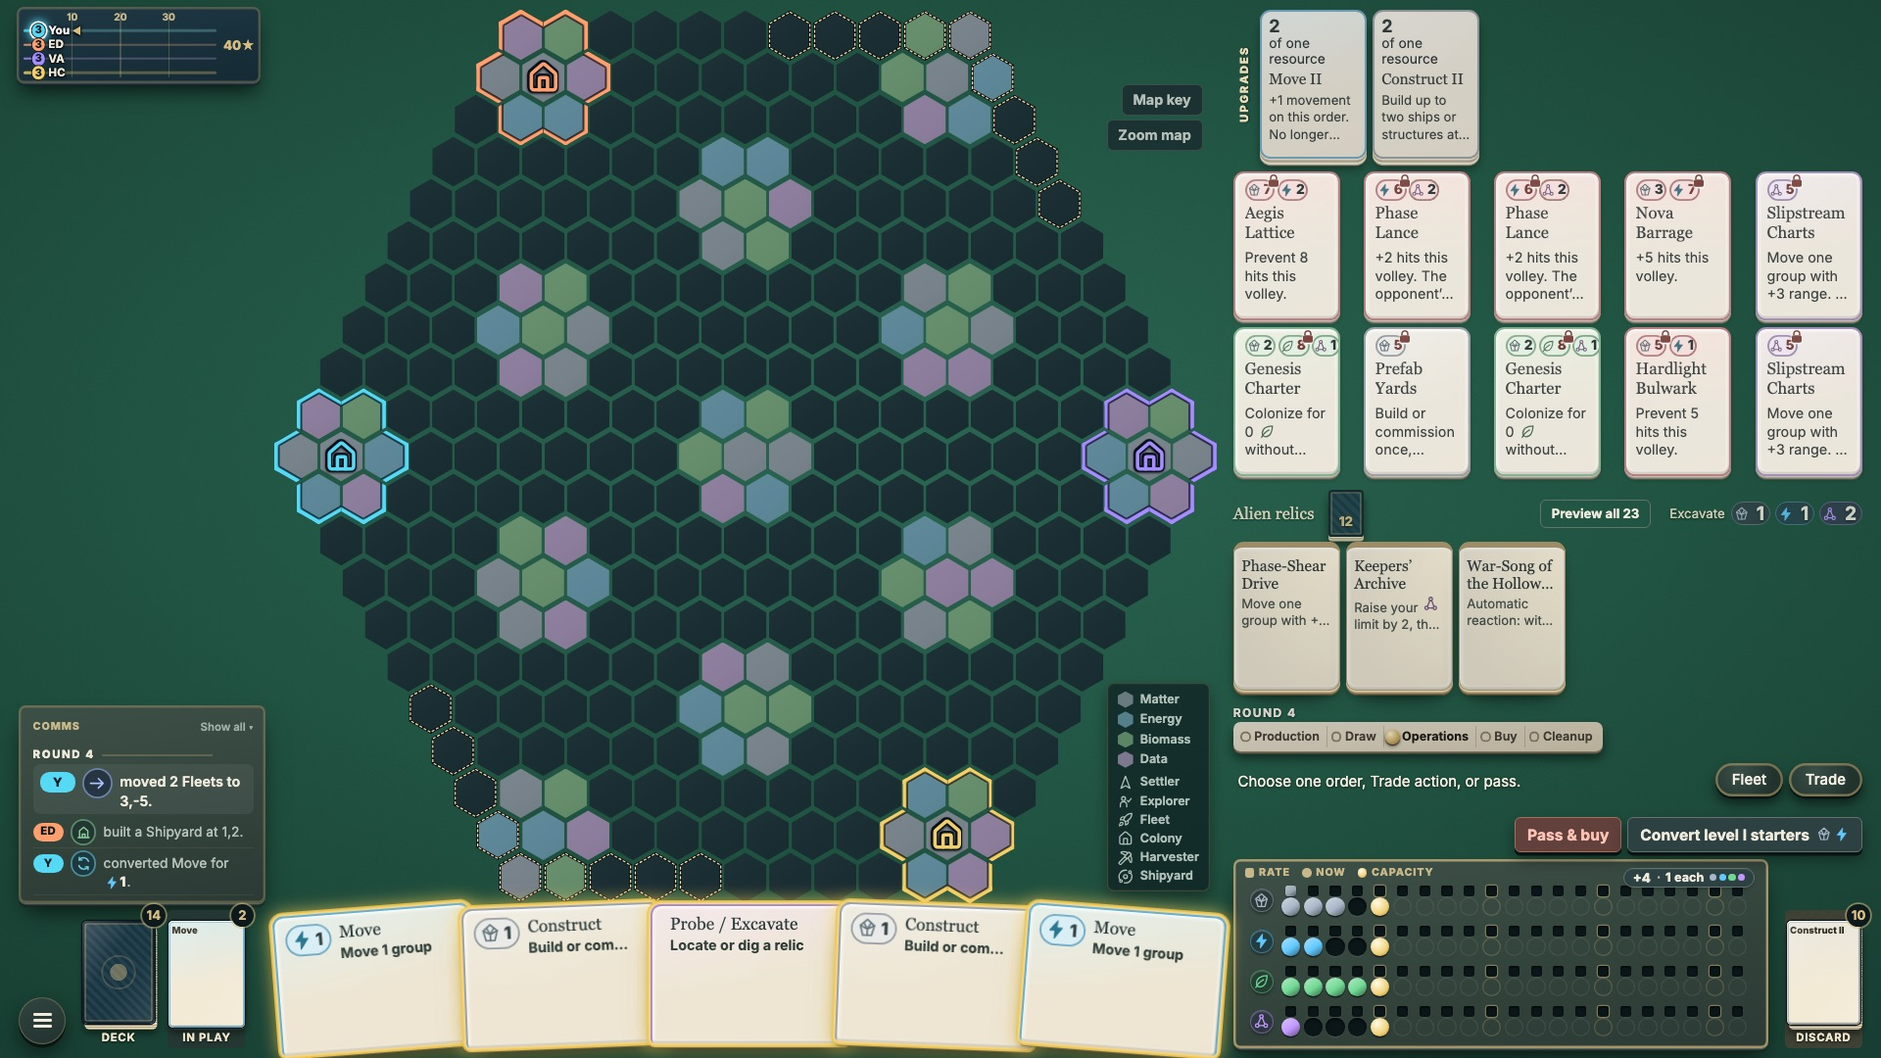
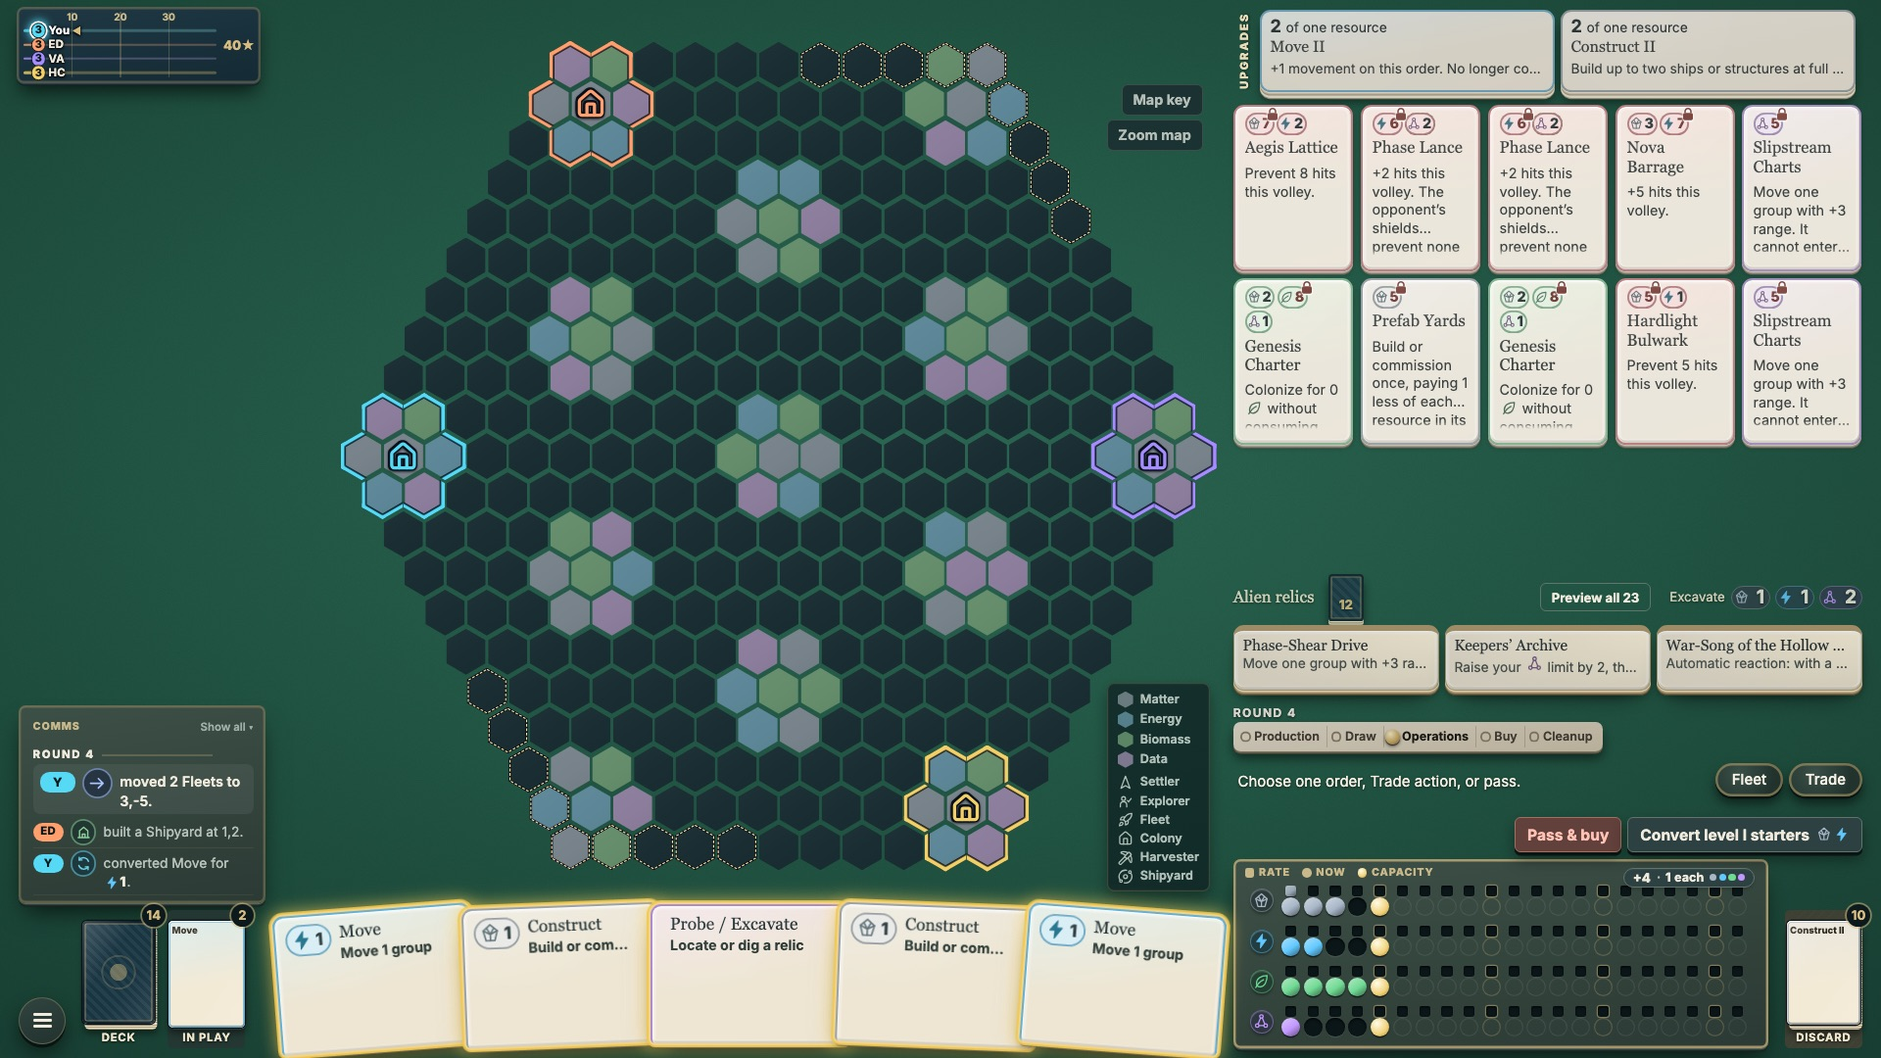
The map fills its space again (the size search scans down instead of bisecting, since corner pieces can clear a larger map and touch a smaller one); market cards pick 3-5 to a row for the largest real cards and never run into the relics; checks assert the map fills 85% of its space and no supply pie

Changed region(s): [[0.125, 0.0, 1.0, 0.8556]]

diff --git a/prototypes/galactic-reach/rulebook.html b/prototypes/galactic-reach/rulebook.html
@@ -123,7 +123,7 @@
 
       <section id="movement">
         <h2>05 / Exploration &amp; movement</h2>
-        <p id="shared-board">Read shared table information around the board: on a desktop window, the whole window is one table, scaled as a whole to fit; the standings are the race to the Prestige goal, a small printed track by the map’s top-left corner with one lane per faction and its marker at its current score (the acting faction’s marker glows, with an arrow; point at or focus a marker for an overview of that faction’s Prestige sources, colonies, cards bought and fleet power, or select it for the breakdown; on a phone the track is the <strong>Table</strong> drawer); the comms feed lies in the bottom-left corner as a small card of the latest three entries, printed like your player mat; select it to open the whole feed, and again (or press Escape) to close it (each entry shows who acted, a symbol for the kind of event and its resource and Prestige amounts; point at an entry for the full sentence); the map itself fills all the space the other pieces leave, reaching into the corners around the track and the comms card, with a short key of the terrain colours and pieces in its bottom-right corner (the <strong>Map key</strong> button has the full descriptions); and to its right lies the supply, all visible together: the <strong>Upgrades</strong> tray (with <strong>Trash a card</strong> beside it during Buy), the ten market cards and the face-up alien relics; below the supply, by your seat, are the round’s phases, the turn prompt, <strong>Fleet</strong> and <strong>Trade</strong>, then the turn’s buttons. On your turn your hand glows and gently breathes (a still glow when your device asks for reduced motion). <strong>Fleet</strong> opens over the supply. The game’s title, rules, card gallery, new game, Undo and playtest notes open from the menu button in the bottom-left corner. The market shows its cards with their names and as much of each effect as fits, wrapped; on a wide window the market, upgrade and relic cards are drawn in real card proportions (point at one to read it in full; choose it to buy), and cards you can buy now are outlined in gold. <strong>Trade</strong> opens the trade channel in its own window. Card frames take the colour of the resource a card works with (gold for capacity, Buy and Prestige cards, red for military and attack cards); the map key shows them. Select a Prestige marker to inspect its breakdown; the scoring reference is in <a href="#victory">Victory</a>. On a narrow screen, these panels reflow inside the board frame; scroll the map to reach other hexes. The recent-action feed can say that Probe was used, but never gives its private relic location. Your hand, card piles, reserves, and full game-report download stay on your player mat. The report can include private information.</p>
+        <p id="shared-board">Read shared table information around the board: on a desktop window, the whole window is one table, scaled as a whole to fit; the standings are the race to the Prestige goal, a small printed track by the map’s top-left corner with one lane per faction and its marker at its current score (the acting faction’s marker glows, with an arrow; point at or focus a marker for an overview of that faction’s Prestige sources, colonies, cards bought and fleet power, or select it for the breakdown; on a phone the track is the <strong>Table</strong> drawer); the comms feed lies in the bottom-left corner as a small card of the latest three entries, printed like your player mat; select it to open the whole feed, and again (or press Escape) to close it (each entry shows who acted, a symbol for the kind of event and its resource and Prestige amounts; point at an entry for the full sentence); the map itself fills all the space the other pieces leave, reaching into the corners around the track and the comms card, with a short key of the terrain colours and pieces in its bottom-right corner (the <strong>Map key</strong> button has the full descriptions); and to its right lies the supply, all visible together: the <strong>Upgrades</strong> tray (with <strong>Trash a card</strong> beside it during Buy), the ten market cards and the face-up alien relics; below the supply, by your seat, are the round’s phases, the turn prompt, <strong>Fleet</strong> and <strong>Trade</strong>, then the turn’s buttons. On your turn your hand glows and gently breathes (a still glow when your device asks for reduced motion). <strong>Fleet</strong> opens over the supply. The game’s title, rules, card gallery, new game, Undo and playtest notes open from the menu button in the bottom-left corner. The market shows its cards with their names and as much of each effect as fits, wrapped; on a wide window the market cards are drawn in real card proportions, three to five to a row, whichever makes them largest (point at one to read it in full; choose it to buy), and cards you can buy now are outlined in gold. <strong>Trade</strong> opens the trade channel in its own window. Card frames take the colour of the resource a card works with (gold for capacity, Buy and Prestige cards, red for military and attack cards); the map key shows them. Select a Prestige marker to inspect its breakdown; the scoring reference is in <a href="#victory">Victory</a>. On a narrow screen, these panels reflow inside the board frame; scroll the map to reach other hexes. The recent-action feed can say that Probe was used, but never gives its private relic location. Your hand, card piles, reserves, and full game-report download stay on your player mat. The report can include private information.</p>
         <p id="keyboard-controls">Use <strong>Tab</strong> to reach controls and <strong>Enter</strong> or <strong>Space</strong> to activate them. The first link skips straight to player controls. Use arrow keys, Home, or End to switch the player-control tabs. Escape closes inspectors and reference windows. Combat and excess-resource choices stay open until you make the required choice.</p>
         <div class="book-legend" role="group" aria-label="Map symbols"><span><b class="relic-mark" aria-hidden="true">◈</b> Located relic</span><span><b class="relic-mark" aria-hidden="true">●</b> Gray moon · no production</span></div>
         <p>World terrain is always public, but seeing a world does not locate its relic. Any Settler, Fleet, or Explorer ending a move surveys that world or moon, revealing its terrain to everyone. Arrival never locates a relic. Use <strong>Probe</strong> from your Explorer’s current hex to locate the nearest remaining relic you have not already discovered, even on an unvisited world or hidden moon. Known sites are skipped. When you locate the last unknown site, a message tells you that all remaining relics are discovered. If all remaining sites are already known to you, Probe warns you without spending the card or your action. You do not need to reach that world or moon first. A signal on an undiscovered moon reveals the relic’s hex to you without revealing the moon’s terrain. Other players must locate it for themselves. Existing discovery relic cards keep their printed effects. Probe and Chorus signals stay private after later terrain surveys. Only an effect that explicitly reveals relics to everyone makes them public. All players’ units remain visible, including in empty space. Unit markers alone do not reveal a hidden moon or relic.</p>

diff --git a/prototypes/galactic-reach/styles.css b/prototypes/galactic-reach/styles.css
@@ -2570,41 +2570,23 @@ html { -webkit-text-size-adjust: 100%; text-size-adjust: 100%; }
   .storage-upgrade-button .storage-each i.data { background: var(--data); }
 }
 
-/* ==== On wide tables the supply cards are real cards: market, upgrade and relic cards all share
-   one 63:88 card size, with the name on up to two lines and as much of the effect as fits. On
-   squarer tables (iPad landscape, ~1440x1200) they stay wider, with the same readable text, so
-   the map stays big. ==== */
+/* ==== On wide tables the market cards are real cards (63:88): three, four or five to a row,
+   whichever makes them tallest in the market's space (see fitMarket), with the name on up to
+   two lines and the effect filling the rest of the card. Upgrades and relics stay readable
+   tiles (all of them as cards would not fit the table's height). On squarer tables (iPad
+   landscape, ~1440x1200) the market keeps wider cards with the same readable text, so the map
+   stays big. ==== */
 @media (min-width: 600px) and (min-height: 600px) and (orientation: landscape) {
-  /* One card size: at most 127 units tall, and narrow enough for five across the supply. The
-     container units resolve against the supply column wherever the size is used. */
-  .table-wide { --card-w: min(calc(127px * 63 / 88), calc((100cqw - 20px) / 5)); --card-h: calc(var(--card-w) * 88 / 63); }
-  /* The market: two rows of five. */
-  .table-wide #market-row { grid-template-columns: repeat(5, var(--card-w)) !important; grid-auto-rows: var(--card-h) !important; justify-content: space-between; align-content: start; }
-  .table-wide .market-cards #market-row .game-card { align-self: start !important; }
-  .table-wide .market-cards #market-row .game-card:not(:hover):not(:focus):not(:focus-within) { height: 100%; }
-  /* Long names break with a hyphen rather than run past a narrow card. */
-  .table-wide :is(#market-row, #upgrade-market, .relic-row) .card-name { hyphens: auto; overflow-wrap: break-word; }
-  /* Prices wrap onto a second line rather than run past a narrow card. */
-  .table-wide :is(#market-row, #upgrade-market, .relic-row) .card-footer { flex-wrap: wrap; row-gap: 2px; }
-  .table-wide :is(#market-row, #upgrade-market, .relic-row) .card-footer .resource-chip { min-height: 18px !important; padding: 0 3px 0 2px !important; }
-  .table-wide :is(#market-row, #upgrade-market, .relic-row) .card-footer .resource-symbol { width: 12px !important; height: 12px !important; }
-  .table-wide :is(#market-row, #upgrade-market, .relic-row) .card-footer .resource-chip strong { font-size: 11.5px !important; }
-  /* Upgrades: two cards in the tray. */
-  .table-wide #upgrade-market { --utop-h: var(--card-h) !important; grid-template-columns: 18px repeat(2, var(--card-w)) !important; justify-content: start; }
-  .table-wide #upgrade-market .game-card:not(:hover):not(:focus):not(:focus-within) { container-type: size; align-content: start; row-gap: 2px !important; padding: 4px 6px 5px !important; }
-  .table-wide #upgrade-market .game-card:not(:hover):not(:focus):not(:focus-within) .card-name { font-size: 13px !important; line-height: 1.15 !important; white-space: normal !important; }
-  .table-wide #upgrade-market .upgrade-price { white-space: normal !important; flex-wrap: wrap; row-gap: 0; line-height: 1.15; }
-  /* Relics: three face-up cards. */
-  .table-wide #relics-panel { --rtop-h: var(--card-h); }
-  .table-wide .relic-row { grid-template-columns: repeat(3, var(--card-w)) !important; justify-content: start; }
-  .table-wide .relic-row > div:not(:has(> .button)) .game-card:not(:hover):not(:focus):not(:focus-within) { container-type: size; }
-  .table-wide .relic-row .game-card:not(:hover):not(:focus):not(:focus-within) { grid-template-columns: minmax(0, 1fr) !important; grid-template-areas: "gain" "name" "effect" !important; align-content: start; row-gap: 3px !important; padding: 5px 6px !important; }
-  .table-wide .relic-row .game-card:not(:hover):not(:focus):not(:focus-within) .card-footer { justify-self: start; }
-  .table-wide .relic-row .game-card:not(:hover):not(:focus):not(:focus-within) .card-name { white-space: normal !important; display: -webkit-box; -webkit-box-orient: vertical; -webkit-line-clamp: 2; line-clamp: 2; overflow: hidden; text-overflow: clip; }
-  /* Effects wrap; the number of lines follows the card's own height (see the market rules). */
-  .table-wide :is(#upgrade-market, .relic-row) .game-card:not(:hover):not(:focus):not(:focus-within) .card-effect {
-    display: -webkit-box !important; -webkit-box-orient: vertical; -webkit-line-clamp: 1 !important; line-clamp: 1 !important; white-space: normal !important; overflow: hidden !important; font-size: 11px !important; line-height: 1.3 !important;
-  }
-  @container (min-height: 100px) { .table-wide :is(#upgrade-market, .relic-row) .game-card:not(:hover):not(:focus):not(:focus-within) .card-effect { -webkit-line-clamp: 2 !important; line-clamp: 2 !important; } }
-  @container (min-height: 112px) { .table-wide :is(#upgrade-market, .relic-row) .game-card:not(:hover):not(:focus):not(:focus-within) .card-effect { -webkit-line-clamp: 3 !important; line-clamp: 3 !important; } }
+  .table-wide #market-row { grid-template-columns: repeat(var(--mcols, 5), minmax(0, 1fr)) !important; grid-auto-rows: auto !important; align-content: start; gap: 6px !important; }
+  .table-wide .market-cards #market-row > .game-card { justify-self: center; align-self: start !important; width: calc(var(--mcard-h, 140px) * 63 / 88); }
+  .table-wide .market-cards #market-row > .game-card:not(:hover):not(:focus):not(:focus-within) { height: var(--mcard-h, 140px) !important; grid-template-rows: auto auto auto minmax(0, 1fr) auto auto !important; }
+  /* The effect takes exactly the height left under the name and price, so it never runs past
+     the card; a line cut short fades out. */
+  .table-wide .market-cards #market-row > .game-card:not(:hover):not(:focus):not(:focus-within) .card-effect { align-self: stretch; min-height: 0; max-height: 100%; -webkit-line-clamp: 8 !important; line-clamp: 8 !important; -webkit-mask-image: linear-gradient(to bottom, #000 calc(100% - 6px), transparent); mask-image: linear-gradient(to bottom, #000 calc(100% - 6px), transparent); }
+  /* Long names break with a hyphen; prices wrap as a group rather than run past the card. */
+  .table-wide #market-row .card-name { hyphens: auto; overflow-wrap: break-word; }
+  .table-wide #market-row :is(.card-footer, .card-footer .resource-dots) { flex-wrap: wrap; row-gap: 2px; min-width: 0; }
+  .table-wide #market-row .card-footer .resource-chip { min-height: 19px !important; padding: 0 3px 0 2px !important; gap: 1px !important; }
+  .table-wide #market-row .card-footer .resource-symbol { width: 12px !important; height: 12px !important; }
+  .table-wide #market-row .card-footer .resource-chip strong { font-size: 12px !important; }
 }

diff --git a/prototypes/galactic-reach/app.js b/prototypes/galactic-reach/app.js
@@ -4472,7 +4472,7 @@ function createGalacticReach(options = {}) {
     // Each part of the table draws on its own: one failing part must never blank the market,
     // the relics or the turn's buttons. Failures are logged, shown once, and fail the checks.
     drawEach({renderHeader, renderScoreboard, renderBoard, renderResources, renderInspector, positionSectorScan, renderLog, renderHand, renderMarket, renderFleetSummary, renderTrade, renderRelicRow, renderOverflow, renderCombat, renderCombatReport, renderBoardPrimary});
-    drawEach({fitMap});
+    drawEach({fitMarket, fitMap});
     drawEach({ 'card feel': () => cardFeel?.rendered?.(cardFeelView()), drawers: followTurnWithDrawer });
   }
 
@@ -4679,7 +4679,7 @@ function createGalacticReach(options = {}) {
   // left strip, as long as no hex runs under the Prestige track, the notice spot below it, the
   // comms card, the map tools or the short map key, which lie in the hexagon's empty corners.
   // Hex positions scale with the map's width, so they are measured once and the largest width
-  // that clears every corner piece is found by bisection.
+  // that clears every corner piece is found by scanning down from the largest.
   let fitMapLog = null;
   function fitMap() {
     if (typeof document === 'undefined' || !document.documentElement?.style) return;
@@ -4703,13 +4703,32 @@ function createGalacticReach(options = {}) {
       const height = width * ratio, left = box.right - width, top = box.top + (box.height - height) / 2;
       return hexes.every(([l, t, r, bottom]) => blocks.every(([bl, bt, br, bb]) => left + r * width <= bl - gap || left + l * width >= br + gap || top + bottom * width <= bt - gap || top + t * width >= bb + gap));
     };
-    let high = Math.min(box.width, box.height / ratio), low = high * .4;
-    if (!fits(high)) {
-      if (!fits(low)) { root.style.removeProperty('--map-w'); return; }
-      for (let step = 0; step < 14; step++) { const mid = (low + high) / 2; if (fits(mid)) low = mid; else high = mid; }
-      high = low;
-    }
-    root.style.setProperty('--map-w', `${Math.floor(high / zoom)}px`);
+    // Hexes are discrete, so a corner piece can clear a larger map and touch a smaller one: scan
+    // down from the largest size in 1% steps and take the first that fits.
+    const high = Math.min(box.width, box.height / ratio);
+    const width = Array.from({ length: 61 }, (_, step) => high * (1 - step / 100)).find(fits);
+    if (!width) { root.style.removeProperty('--map-w'); return; }
+    root.style.setProperty('--map-w', `${Math.floor(width / zoom)}px`);
+  }
+
+  // On a wide table the market's cards are real cards (63:88). Choose three, four or five to a
+  // row, whichever lets the cards be tallest in the space the market has.
+  function fitMarket() {
+    const row = $('#market-row'), root = typeof document !== 'undefined' ? document.documentElement : null;
+    if (!row?.getBoundingClientRect || !root?.classList?.contains('table-wide')) { row?.style?.removeProperty?.('--mcols'); row?.style?.removeProperty?.('--mcard-h'); return; }
+    // The row's own height follows its cards, so the space is measured down to the bottom of the
+    // market panel, which the table's grid sizes, or the relics below it.
+    const zoom = Number(root.style.getPropertyValue('--table-zoom')) || 1, box = row.getBoundingClientRect();
+    const panel = row.closest('#market-panel')?.getBoundingClientRect() || box, relics = $('#relics-panel')?.getBoundingClientRect();
+    const bottom = Math.min(panel.bottom, relics?.height ? relics.top - 6 * zoom : Infinity);
+    const width = box.width / zoom, height = (bottom - box.top) / zoom - 4, count = row.children.length, gap = 6;
+    if (!width || !height || !count) return;
+    const best = [3, 4, 5].map(cols => {
+      const rows = Math.ceil(count / cols);
+      return { cols, h: Math.min((width - (cols - 1) * gap) / cols * 88 / 63, (height - (rows - 1) * gap) / rows) };
+    }).reduce((a, b) => b.h > a.h ? b : a);
+    row.style.setProperty('--mcols', String(best.cols));
+    row.style.setProperty('--mcard-h', `${Math.floor(best.h)}px`);
   }
 
   // On a desktop window the market and relics lie on the table together; Fleet opens over them.
@@ -4792,7 +4811,15 @@ function createGalacticReach(options = {}) {
     window.addEventListener('resize',positionSectorScan);
     fitTable();
     window.addEventListener('resize',fitTable);
+    window.addEventListener('resize',fitMarket);
     window.addEventListener('resize',fitMap);
+    // Late layout (web fonts, panels settling) re-fits the market and the map; their own sizing
+    // does not change the panels' sizes, so this cannot loop.
+    if (typeof ResizeObserver === 'function') {
+      const refit = new ResizeObserver(() => { fitMarket(); fitMap(); });
+      ['#market-panel', '#relics-panel', '.board-map-region'].forEach(sel => { const el = $(sel); if (el) refit.observe(el); });
+    }
+    document.fonts?.ready?.then?.(() => { fitMarket(); fitMap(); });
     document.addEventListener('scroll',event=>{if(!$('#sector-popover').contains(event.target))positionSectorScan();},true);
     $('#open-map-key').addEventListener('click',()=>$('#map-key-dialog').showModal());
     $('#close-map-key').addEventListener('click',()=>$('#map-key-dialog').close());

diff --git a/changes/gr-ui-followup.md b/changes/gr-ui-followup.md
@@ -3,4 +3,4 @@ compat: safe
 title: The turn lies with your seat
 pr: 74
 ---
-The round's phases, the turn prompt and Fleet/Trade now sit at the bottom of the supply, next to your hand and the turn's buttons, and the supply starts at the top. On your turn your hand glows and gently breathes instead of a "Your turn" banner ([Shared board](rulebook.html#shared-board)). Market cards show their whole name and as much of their effect as fits, so they read without pointing at them; on wide windows market, upgrade and relic cards are real card shapes. A short key of the terrain colours and pieces lies in the map's empty corner. Your hand, the market, your mat and the map read first; the relics, upgrades, phases and comms sit back until you point at them. The mat no longer offers a Discard: resources above a limit are still discarded automatically ([Resources](rulebook.html#resources)). The +4 capacity token always shows its current price.
+The round's phases, the turn prompt and Fleet/Trade now sit at the bottom of the supply, next to your hand and the turn's buttons, and the supply starts at the top. On your turn your hand glows and gently breathes instead of a "Your turn" banner ([Shared board](rulebook.html#shared-board)). Market cards show their whole name and as much of their effect as fits, so they read without pointing at them; on wide windows market cards are real card shapes, as large as the space allows. A short key of the terrain colours and pieces lies in the map's empty corner. Your hand, the market, your mat and the map read first; the relics, upgrades, phases and comms sit back until you point at them. The mat no longer offers a Discard: resources above a limit are still discarded automatically ([Resources](rulebook.html#resources)). The +4 capacity token always shows its current price.
